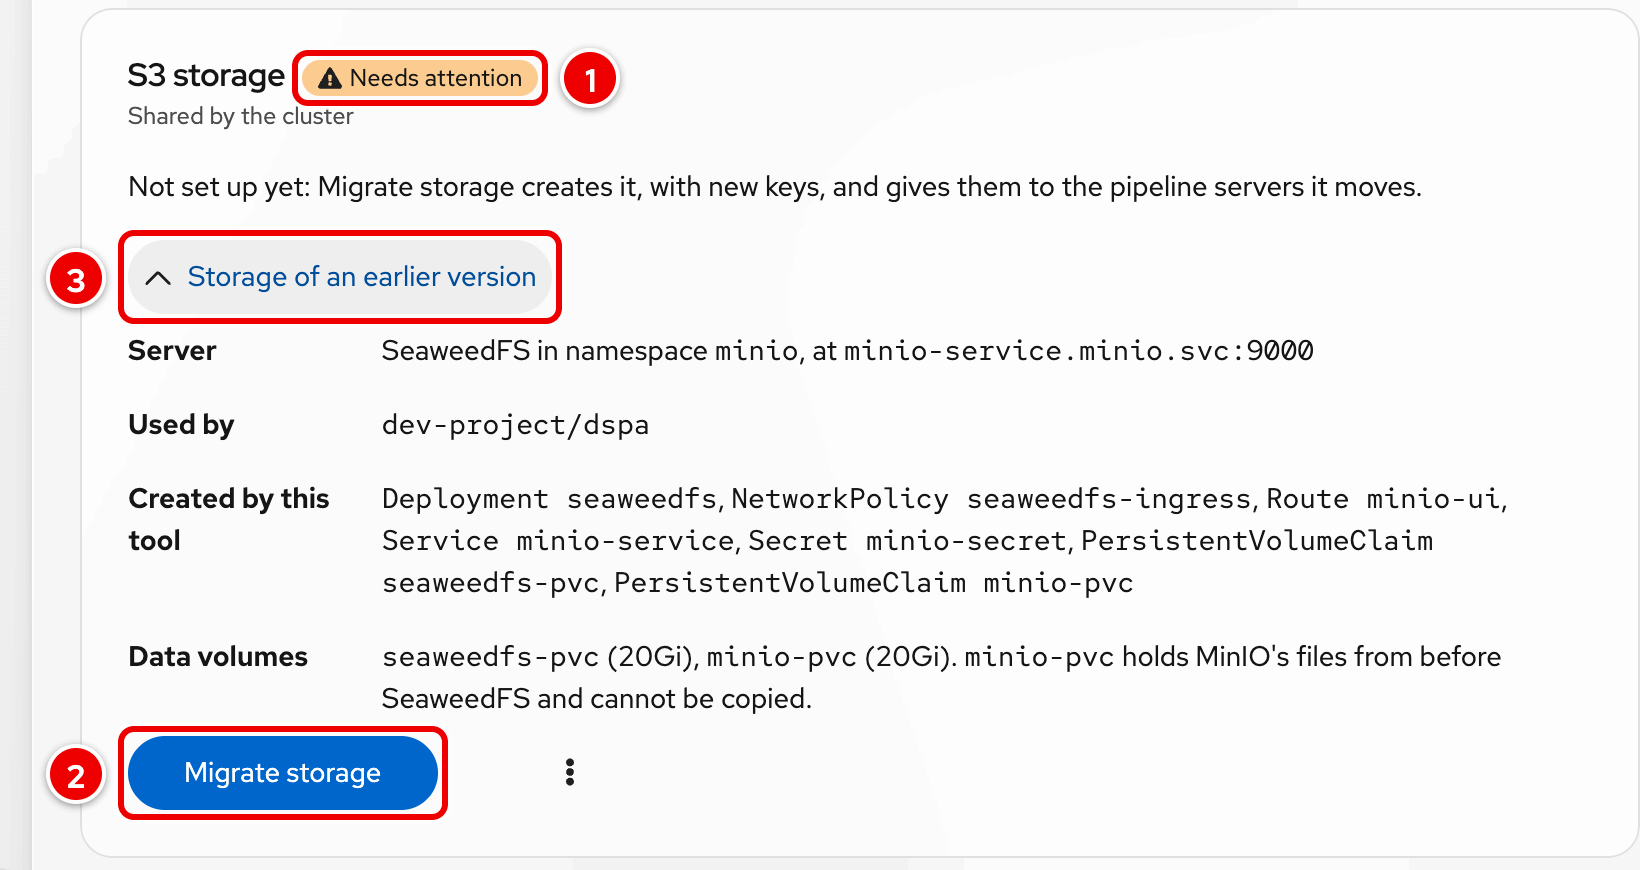
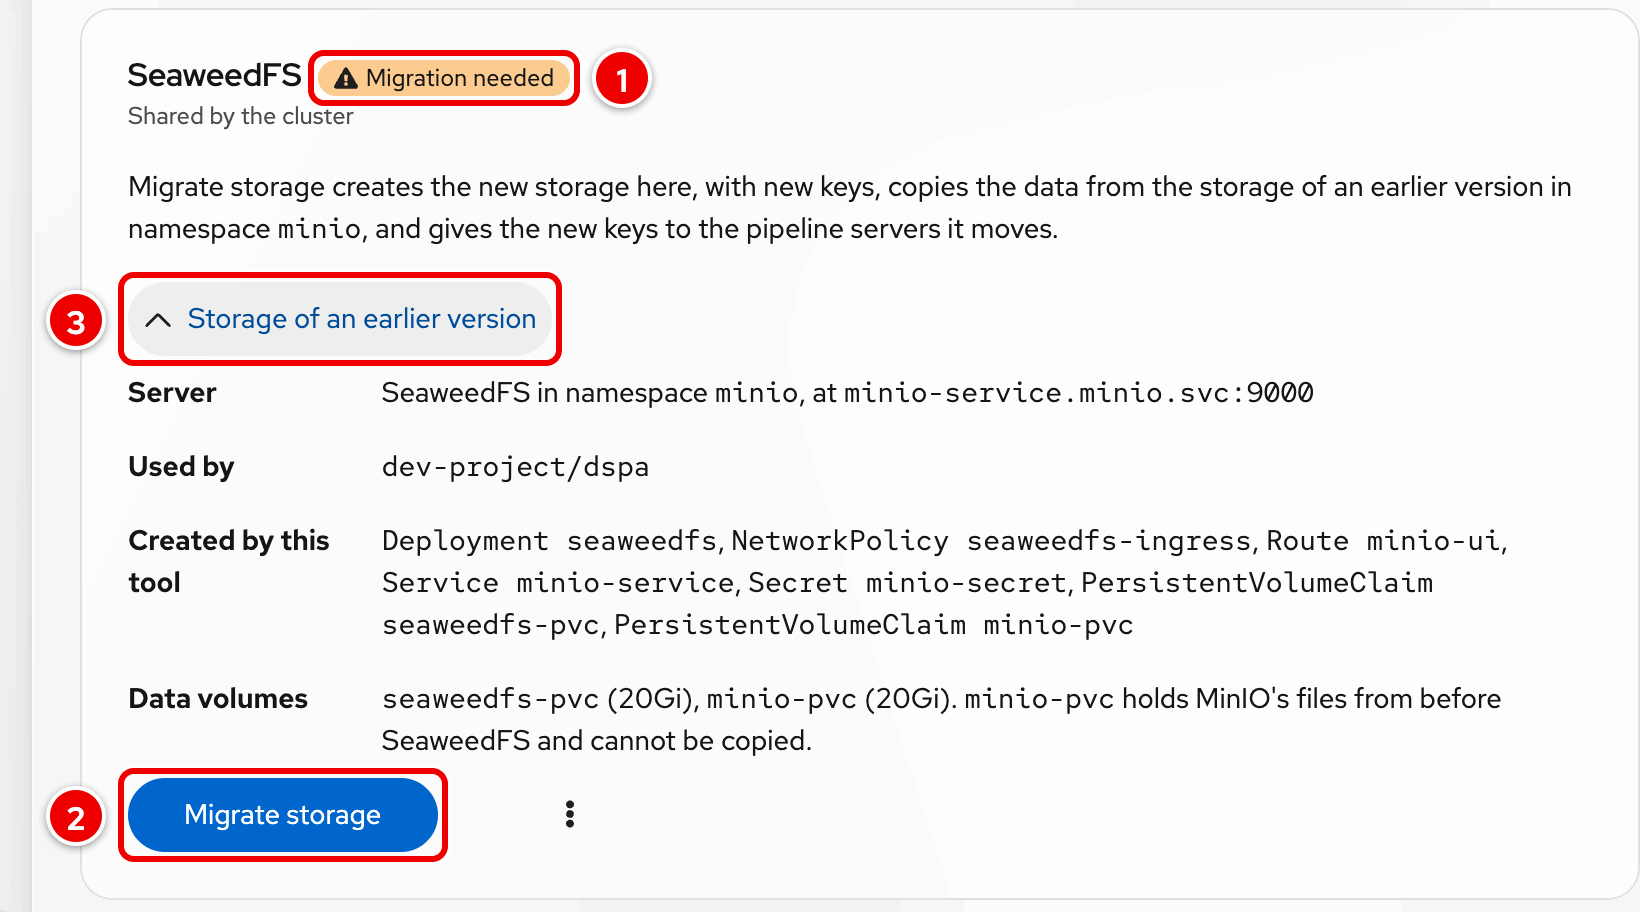
docs(environment): Migration needed and the SeaweedFS part in the guides and images
README and RUNBOOK use the one migration label; the capture script finds
the storage tab's part as SeaweedFS. Regenerated the images that show it:
environment-storage, environment-pipelines, environment-pipeline-sample,
s3-incomplete, s3-migration-needed and the migrate and repair GIFs.

diff --git a/docs/tools/capture.js b/docs/tools/capture.js
@@ -932,7 +932,7 @@ async (page) => {
 
       // The S3 storage, the cluster's: its own tab, no project picker.
       await open("/test-resources?tab=storage", "env-live");
-      const storage = part("S3 storage");
+      const storage = part("SeaweedFS");
       await crop("environment-storage", [panel().getByRole("heading", { name: "S3 storage", level: 2 }), storage], {
         notes: [
           { at: label(panel(), "Ready"), n: 1, pos: "r" },
@@ -1105,12 +1105,12 @@ async (page) => {
       });
 
       await open("/test-resources?tab=storage", "s3-migrate");
-      const old = part("S3 storage");
+      const old = part("SeaweedFS");
       await old.getByRole("button", { name: "Storage of an earlier version" }).click();
       await wait(400);
       await crop("s3-migration-needed", old, {
         notes: [
-          { at: label(old, "Needs attention"), n: 1, pos: "r" },
+          { at: label(old, "Migration needed"), n: 1, pos: "r" },
           { at: old.getByRole("button", { name: "Migrate storage" }), n: 2, pos: "l" },
           { at: old.getByRole("button", { name: "Storage of an earlier version" }), n: 3, pos: "l" },
         ],
@@ -1122,14 +1122,14 @@ async (page) => {
       await page.keyboard.press("Escape");
 
       await open("/test-resources?tab=storage", "s3-migrate-remove");
-      await part("S3 storage").getByRole("button", { name: "S3 storage actions" }).click();
+      await part("SeaweedFS").getByRole("button", { name: "SeaweedFS actions" }).click();
       await page.getByRole("menuitem", { name: /Delete old storage/ }).click();
       await wait(800);
       await crop("s3-remove-dialog", page.locator(".pf-v6-c-modal-box"), { noFit: true, pad: 6 });
       await page.keyboard.press("Escape");
 
       await open("/test-resources?tab=storage", "s3-incomplete");
-      const inc = part("S3 storage");
+      const inc = part("SeaweedFS");
       await crop("s3-incomplete", inc, {
         notes: [
           { at: label(inc, "Needs attention"), n: 1, pos: "r" },
@@ -1208,7 +1208,7 @@ async (page) => {
       await open("/test-resources?tab=storage", "s3-migrate");
       gif("s3-migrate", await mainClip());
       await frame(1200);
-      await clickShown(page.getByRole("listitem", { name: "S3 storage", exact: true }).getByRole("button", { name: "Migrate storage" }));
+      await clickShown(page.getByRole("listitem", { name: "SeaweedFS", exact: true }).getByRole("button", { name: "Migrate storage" }));
       await wait(700);
       await hidePointer();
       await frame(2600);
@@ -1233,7 +1233,7 @@ async (page) => {
       await open("/test-resources?tab=storage", "s3-incomplete");
       gif("s3-repair", await mainClip());
       await frame(1200);
-      await clickShown(page.getByRole("listitem", { name: "S3 storage", exact: true }).getByRole("button", { name: "Repair" }));
+      await clickShown(page.getByRole("listitem", { name: "SeaweedFS", exact: true }).getByRole("button", { name: "Repair" }));
       await wait(700);
       await hidePointer();
       await frame(2200);

diff --git a/RUNBOOK.md b/RUNBOOK.md
@@ -29,7 +29,7 @@ What the tool itself changes: [docs/CLUSTER_CHANGES.md](docs/CLUSTER_CHANGES.md)
 | **Operator failed**, **No Subscription**, a failed Update or Install a different build step, "the API server's response is larger than 50 MiB" | [§6](#6-update--install-a-different-build-failed) |
 | A PR shows "Does not contain" in Build Explorer, tags or commit dates do not load | [§8](#8-build-explorer-quay-and-github) |
 | "Dashboard Dev session active", "Distance from main unknown" | [§9](#9-dashboard-dev) |
-| Storage **Needs attention** (Migrate storage or Repair), **Error**, Delete disabled, a pipeline server or sample problem | [§10](#10-environment-page), [§10.1](#101-migrate-storage-from-an-earlier-version) |
+| Storage **Migration needed** (Migrate storage), **Needs attention** (Repair), **Error**, Delete disabled, a pipeline server or sample problem | [§10](#10-environment-page), [§10.1](#101-migrate-storage-from-an-earlier-version) |
 | A model **Error** or **Needs attention**, "Can it be called?" fails, the gateway's list of projects | [§10.2](#102-models-the-inference-gateway-and-cpu-models) |
 | A playground that cannot be set up or deleted | [§10.3](#103-playground-the-dashboards-gen-ai-playground) |
 | MaaS setup, Publish or Unpublish refused, API keys that stop working, 429 | [§10.4](#104-maas-models-as-a-service) |
@@ -378,7 +378,7 @@ While the page reads the cluster, each Overview row and each tab shows loading p
 |---|---|
 | S3 storage setup: "not created by this tool" | Namespace `seaweedfs` holds foreign objects (or was not created by this tool). Nothing was changed. Remove them or use another cluster |
 | "The updater's ServiceAccount is not allowed to do this ... run `make upgrade`" | A read the updater makes with its ServiceAccount (a status, an ownership check) was refused: the image is newer than the template (the banner says the template is outdated). An admin runs `make upgrade`, then retry. A refusal of a setup or teardown step itself says "your OpenShift account is not allowed to do this" instead, since changes run with your own token ([§4](#4-sign-in-and-permissions)) |
-| Storage "Needs attention" with **Migrate storage** | Storage from an earlier version is in namespace `minio`. **Migrate storage** moves it (§10.1); Set up, and a new pipeline server, wait until it has copied the data |
+| Storage "Migration needed" with **Migrate storage** | Storage from an earlier version is in namespace `minio`. **Migrate storage** moves it (§10.1); Set up, and a new pipeline server, wait until it has copied the data |
 | Migrate storage stopped: "The copy is not complete" | Nothing else changed. The message says what differs and whether a retry can help. Objects or buckets missing, or unreadable: run it again (the copy never deletes). Before the first verified copy, while nothing uses the new storage, changed objects are copied again. Objects "different in the new storage" after that (a migration finished, pipeline servers write there, or Delete old storage's final copy): the copy never overwrites them, so a retry gives the same result; for each path named, copy the old version into `seaweedfs` yourself or delete it from `minio`, then run it again. Extra objects in `seaweedfs` are only reported |
 | Migrate storage: "The copy is still running" | A large storage: the Job keeps running (up to an hour). Run Migrate storage again to wait for it |
 | Delete old storage: "The final copy and check are still running" | Nothing was deleted and the copy keeps running (Job `seaweedfs-migrate`, marked as a final copy). Run Delete old storage again: it waits for that copy instead of starting over, and deletes the old storage only once it passed |
@@ -427,9 +427,9 @@ While the page reads the cluster, each Overview row and each tab shows loading p
 
 Versions before 3.0.0 kept the S3 storage in namespace `minio`, behind MinIO-era names. 3.0.0 moves it, with its data, to namespace `seaweedfs`:
 
-<img src="docs/images/s3-migration-needed.png" alt="S3 storage Needs attention, with Migrate storage, and the old storage's objects in its section" width="760">
+<img src="docs/images/s3-migration-needed.png" alt="SeaweedFS on the S3 storage tab: Migration needed, with Migrate storage, and the old storage's objects in its section" width="760">
 
-1. **Needs attention**: the old storage still holds the data and serves its pipeline servers.
+1. **Migration needed**: the old storage still holds the data and serves its pipeline servers.
 2. **Migrate storage** opens the plan; nothing changes until you confirm.
 3. **Storage of an earlier version** names the old storage's objects and volumes (the only place with MinIO-era names).
 

diff --git a/README.md b/README.md
@@ -141,7 +141,7 @@ Everything the new server needs is checked first; nothing is deleted if it would
 
 Before **Set up**, the tab shows what it needs: a DataScienceCluster component that is not Managed (with **Open Components**), no data science project (with a link to the dashboard's Projects page), or a namespace `seaweedfs` that is someone else's. Set up stays disabled, with the reason under it. Once the pipeline server is ready, **Use it** shows where its runs are, its API endpoint and a KFP SDK snippet, followed by **What next**. Problems read in plain words, with the fix (Repair, Revert, View logs) on the alert and the pod's reasons under **Technical details**. Every change runs in one dialog with its steps and outcome. If you close it, the alert at the top of the page names the run and its step, with **View progress** to open the dialog again, and a notification brings the outcome back.
 
-Storage an earlier version set up in namespace `minio` reads **Needs attention**; a warning at the top of the tab says why and offers **Migrate storage**, which moves it, with its data and pipeline servers, and ends there. **Delete old storage** is a separate, later action in the storage's menu ([RUNBOOK §10.1](RUNBOOK.md#101-migrate-storage-from-an-earlier-version)).
+Storage an earlier version set up in namespace `minio` reads **Migration needed** (on the Overview, the S3 storage tab and the Pipelines tab); a warning at the top of the S3 storage tab says why, and the storage's **Migrate storage** button moves it, with its data and pipeline servers, and ends there. **Delete old storage** is a separate, later action in the storage's menu ([RUNBOOK §10.1](RUNBOOK.md#101-migrate-storage-from-an-earlier-version)).
 
 <img src="docs/images/environment-mlflow.png" alt="MLflow tab: the MLflow server Ready and Not managed by this tool, with its image, address and Deploy PR" width="760">
 
